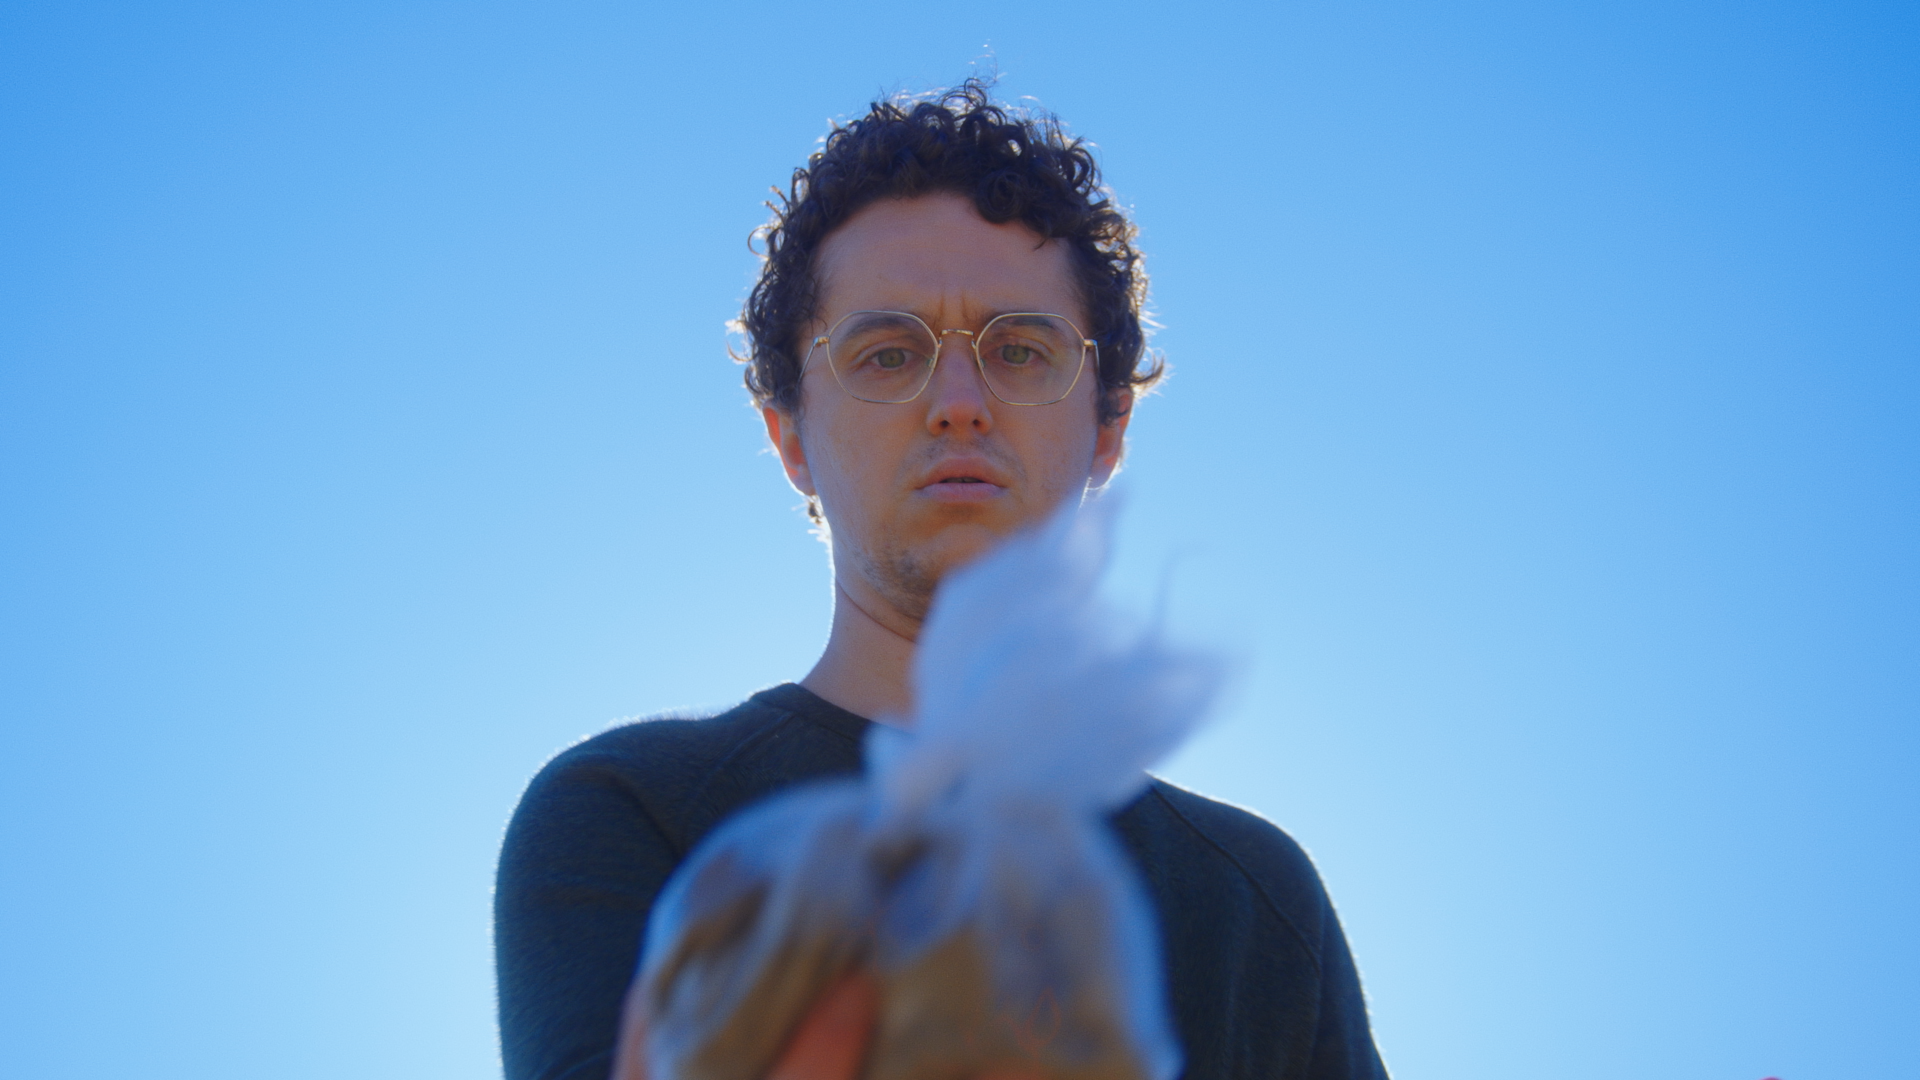
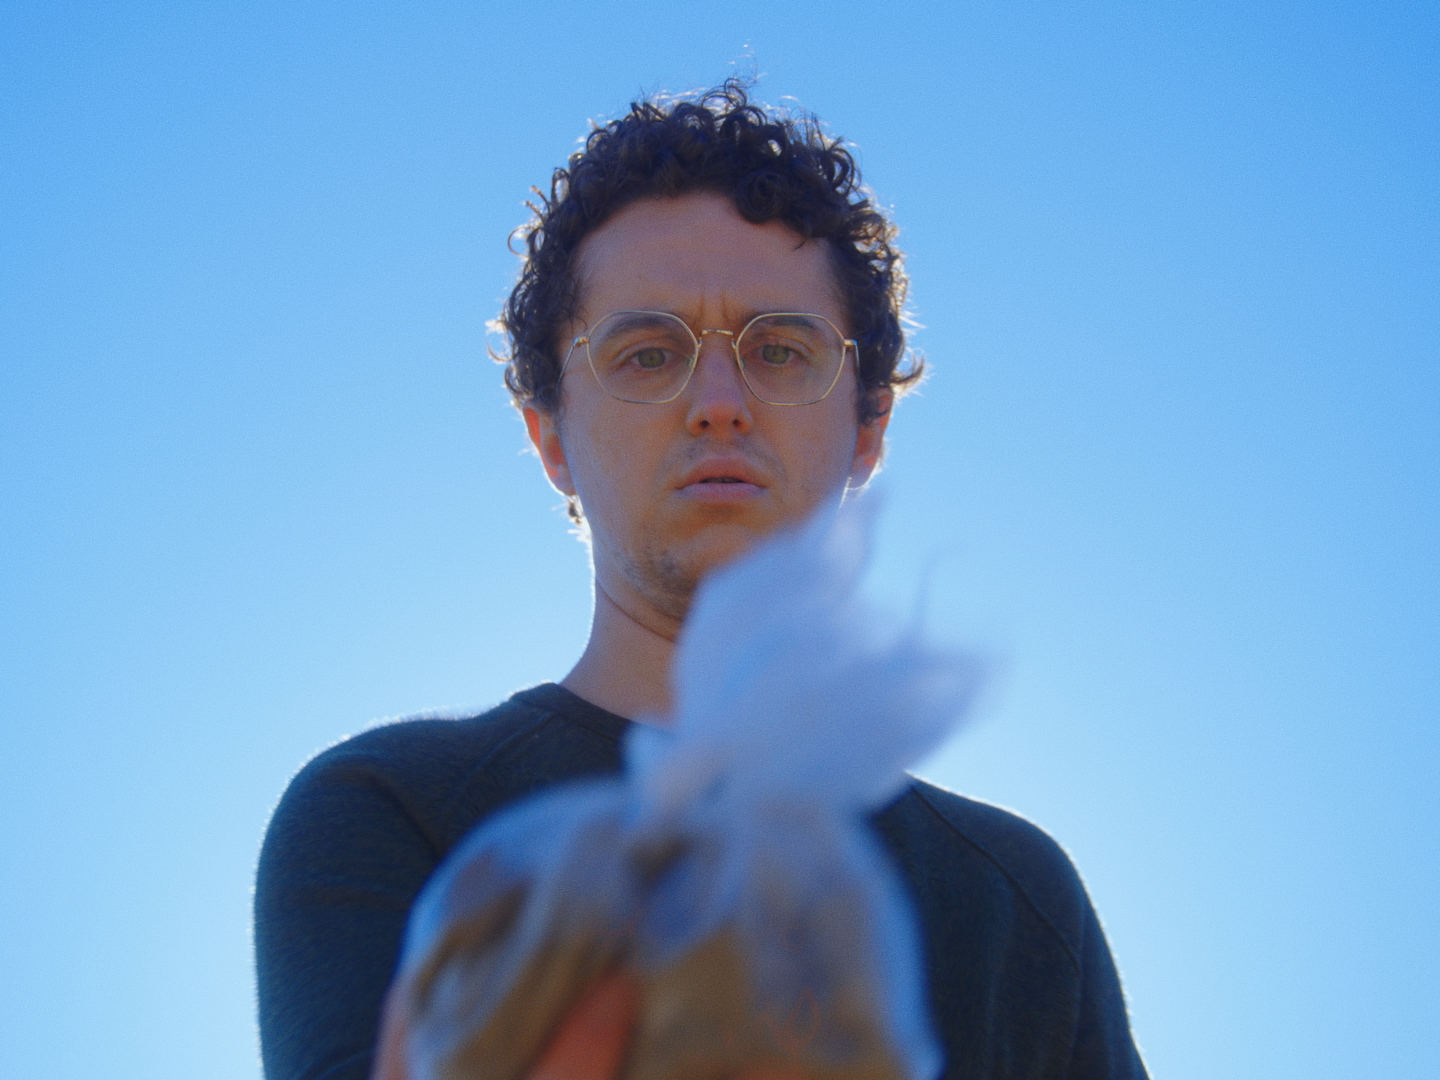
Simplified Page

diff --git a/_pages/films.md b/_pages/films.md
@@ -26,7 +26,7 @@ description: An almost complete list of films.
     -->
     
 
-<img src="/assets/img/pigs.gif" class="z-depth-1 rounded" width="100%" height="auto" alt="wave-mechanics.gif" loading="eager">
+<img src="/assets/img/films/pigs/pigs1.png" class="z-depth-1 rounded" width="100%" height="auto" alt="pigs1.png" loading="eager">
   </picture>
 </figure>
 
@@ -71,7 +71,7 @@ description: An almost complete list of films.
     -->
     
 
-<img src="/assets/img/zindagi2.gif" class="z-depth-1 rounded" width="100%" height="auto" alt="wave-mechanics.gif" loading="eager">
+<img src="/assets/img/films/zindagi/zindagi2.png" class="z-depth-1 rounded" width="100%" height="auto" alt="zindagi7.png" loading="eager">
   </picture>
 </figure>
 
@@ -99,6 +99,7 @@ description: An almost complete list of films.
 <!-- END FOR SINGLE ENTRY -->
 
 
+<!--
 
 <h2 class="bibliography">2022</h2>
 <ol class="bibliography"><li>
@@ -108,23 +109,16 @@ description: An almost complete list of films.
 <div class="col-sm-4">
 <figure>
   <picture>
-    <!-- Auto scaling with imagemagick -->
-    <!--
-      See https://www.debugbear.com/blog/responsive-images#w-descriptors-and-the-sizes-attribute and
-      https://developer.mozilla.org/en-US/docs/Learn/HTML/Multimedia_and_embedding/Responsive_images for info on defining 'sizes' for responsive images
-    -->
     
 
-<img src="/assets/img/flying2.gif" class="z-depth-1 rounded" width="100%" height="auto" alt="flying1.gif" loading="eager">
+<img src="/assets/img/films/flying/flying7.png" class="z-depth-1 rounded" width="100%" height="auto" alt="flying7.png" loading="eager">
   </picture>
 </figure>
 
 </div>
   
 
-  <!-- Entry bib key -->
   <div id="flying" class="col-sm-8">
-    <!-- Title -->
     <div class="title"><b>"A Flying Man"</b></div>
  <div class="periodical">
       <em>Narrative Short</em>
@@ -139,7 +133,9 @@ description: An almost complete list of films.
 </div>
 </a>
 </li></ol>
+-->
 
+<!--
 <h2 class="bibliography">2021</h2>
 <ol class="bibliography"><li>
 <a href="/films/leisure">
@@ -148,12 +144,7 @@ description: An almost complete list of films.
 <div class="col-sm-4">
 <figure>
   <picture>
-    <!-- Auto scaling with imagemagick -->
-    <!--
-      See https://www.debugbear.com/blog/responsive-images#w-descriptors-and-the-sizes-attribute and
-      https://developer.mozilla.org/en-US/docs/Learn/HTML/Multimedia_and_embedding/Responsive_images for info on defining 'sizes' for responsive images
-    -->
-    
+      
 
 <img src="/assets/img/leisure1.gif" class="z-depth-1 rounded" width="100%" height="auto" alt="leisure.gif" loading="eager">
   </picture>
@@ -162,9 +153,7 @@ description: An almost complete list of films.
 </div>
   
 
-  <!-- Entry bib key -->
   <div id="leisure" class="col-sm-8">
-    <!-- Title -->
     <div class="title"><b>"Adventures in Leisure"</b></div>
  <div class="periodical">
       <em>Experimental Short</em>
@@ -179,7 +168,7 @@ description: An almost complete list of films.
 </div>
 </a>
 </li></ol>
-
+-->
 
 
 </div>

diff --git a/_films/pigs.md b/_films/pigs.md
@@ -12,8 +12,8 @@ images:
 <div class="bottom-border">
 <swiper-container keyboard="true" navigation="true" rewind="true">
   <swiper-slide>{% include figure.liquid loading="eager" path="assets/img/films/pigs/pigs0.png" class="img-fluid rounded z-depth-1" zoomable=true %}</swiper-slide>
-  <swiper-slide>{% include figure.liquid loading="eager" path="assets/img/films/pigs/pigs1.png" class="img-fluid rounded z-depth-1" zoomable=true %}</swiper-slide>
   <swiper-slide>{% include figure.liquid loading="eager" path="assets/img/films/pigs/pigs2.png" class="img-fluid rounded z-depth-1" zoomable=true %}</swiper-slide>
+  <swiper-slide>{% include figure.liquid loading="eager" path="assets/img/films/pigs/pigs1.png" class="img-fluid rounded z-depth-1" zoomable=true %}</swiper-slide>
   <swiper-slide>{% include figure.liquid loading="eager" path="assets/img/films/pigs/pigs3.png" class="img-fluid rounded z-depth-1" zoomable=true %}</swiper-slide>
   <swiper-slide>{% include figure.liquid loading="eager" path="assets/img/films/pigs/pigs4.png" class="img-fluid rounded z-depth-1" zoomable=true %}</swiper-slide>
   <swiper-slide>{% include figure.liquid loading="eager" path="assets/img/films/pigs/pigs5.png" class="img-fluid rounded z-depth-1" zoomable=true %}</swiper-slide>
@@ -21,6 +21,7 @@ images:
   <swiper-slide>{% include figure.liquid loading="eager" path="assets/img/films/pigs/pigs7.png" class="img-fluid rounded z-depth-1" zoomable=true %}</swiper-slide>
   <swiper-slide>{% include figure.liquid loading="eager" path="assets/img/films/pigs/pigs8.png" class="img-fluid rounded z-depth-1" zoomable=true %}</swiper-slide>
   <swiper-slide>{% include figure.liquid loading="eager" path="assets/img/films/pigs/pigs9.png" class="img-fluid rounded z-depth-1" zoomable=true %}</swiper-slide>
+  <swiper-slide>{% include figure.liquid loading="eager" path="assets/img/films/pigs/pigs10.png" class="img-fluid rounded z-depth-1" zoomable=true %}</swiper-slide>
 </swiper-container>
 </div>
 
@@ -29,11 +30,11 @@ images:
 [Pigs Fly (And Gods Cry) - Trailer on Vimeo](https://vimeo.com/1021183172?share=copy)
 
 ##### Summary
-An attempt is made to determine whether a pig truly flew over the skies of Berkeley, California, on January 14th, 10:30 AM (Pacific Standard Time). The attempt fails. 
+A documentarian acquires capital, learns a passage from Hesiod, and features in his key witness's documentary, all in an attempt to determine whether a pig truly flew over the skies of Berkeley, California, on January 14th, 10:30 AM (Pacific Standard Time).
 
 ##### Brief Credits 
 Cast: Luke Baxter, Michael John Parker, Gigi A. Tasse, Emily Keyishian | Direction: Noah W. Weber | Cinematography: Marc Lenahan | Producer: Orlando Torres | Executive Producer: Leena Shekhar | Music: Noah W. Weber
 
 ##### Specs
-2024 | 15 minutes 53 second | 1.78:1
+2024 | 15 minutes 53 second | 4:3 
 

diff --git a/_pages/profiles.md b/_pages/profiles.md
@@ -10,7 +10,7 @@ profiles:
   # if you want to include more than one profile, just replicate the following block
   # and create one content file for each profile inside _pages/
   - align: right
-    image: me2.jpg
+    image: me2.png
     content: about_noah.md
     image_circular: true # crops the image to make it circular
 ---

diff --git a/_pages/about_noah.md b/_pages/about_noah.md
@@ -1,5 +1,6 @@
-### Noah W. Weber
-All inquiries requiring an eventual response should be sent to ***nwweberna@gmail.com*** 
+Director based in the Bay Area.  
+
+Contact via electronic mail at: ***nwweberna \[at\] gmail.com*** 
 
 Inquiries by telefax are no longer accepted.
 
